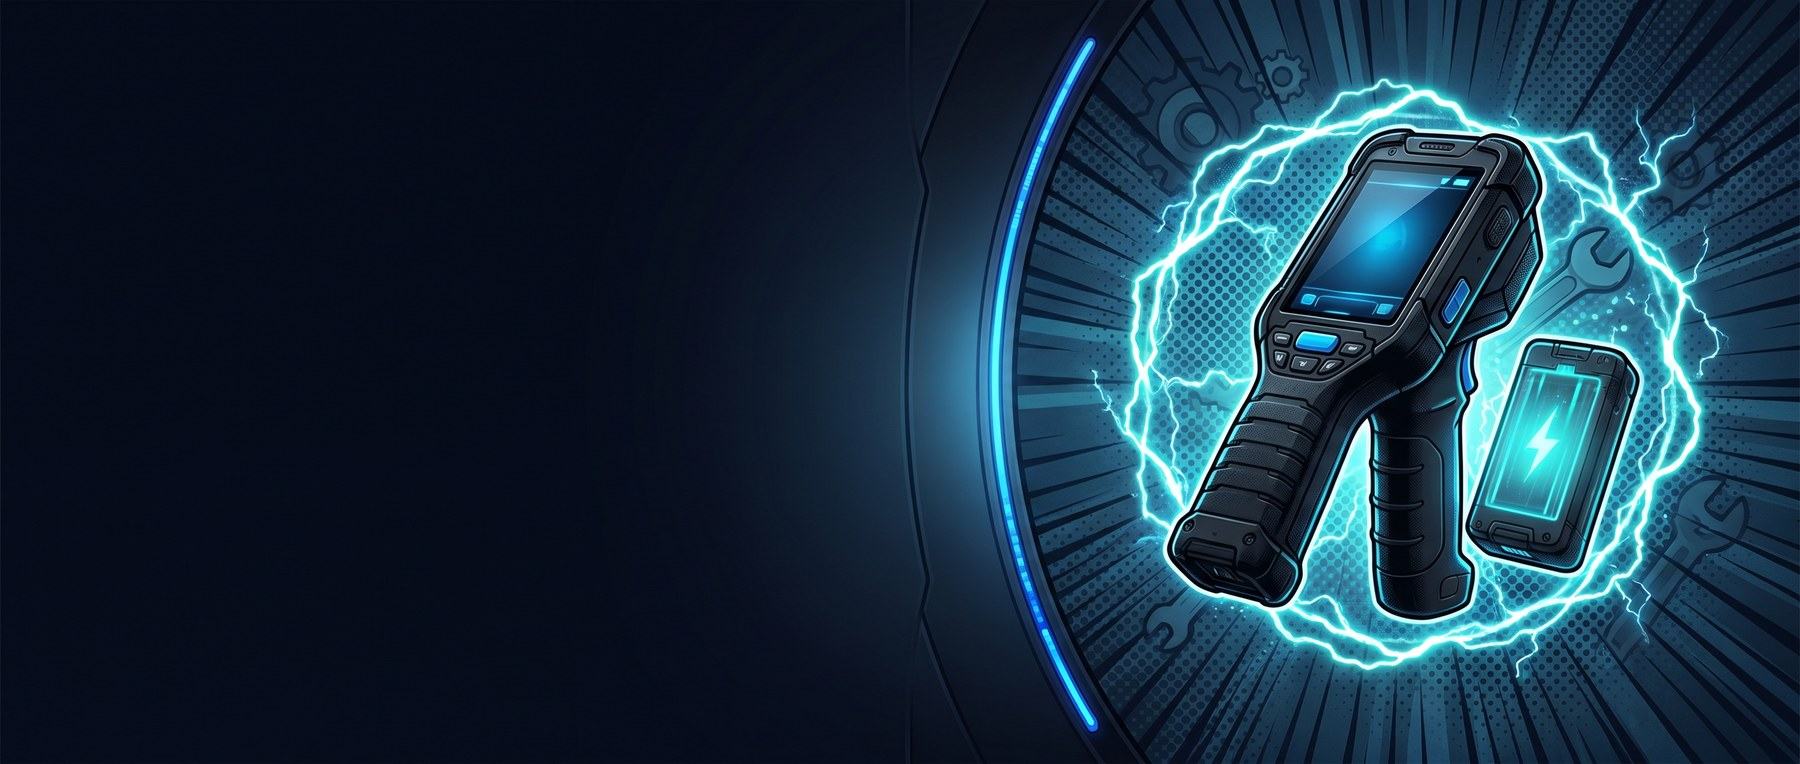
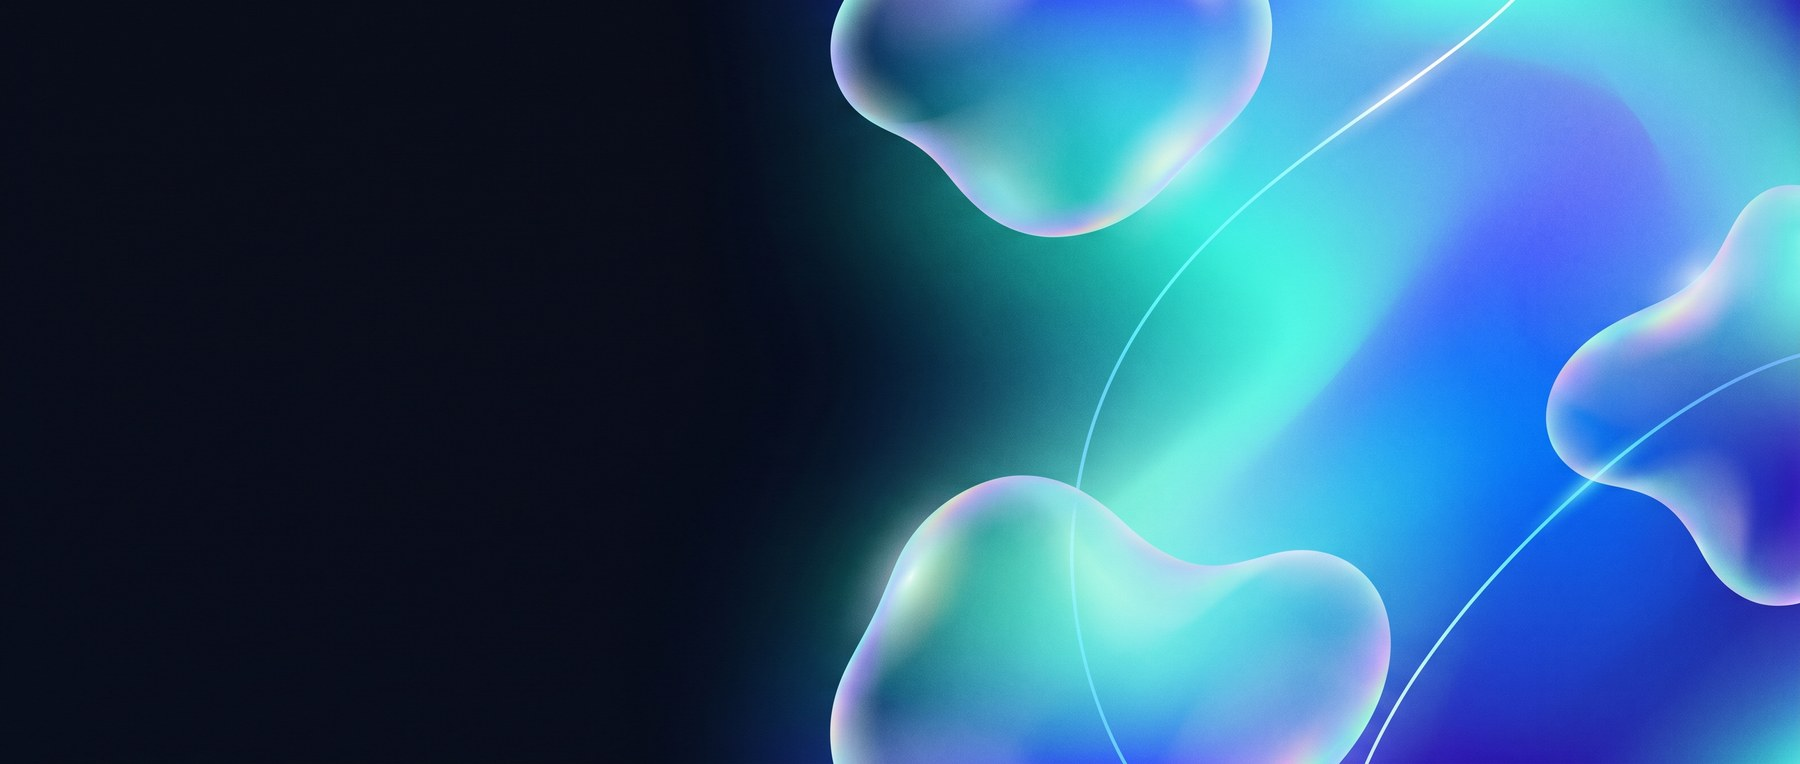
design(funnel): aurora 2026 banery (bez urządzeń) — cyan vs magenta + własne ikony 3D glass
- tła: abstrakcyjne aurora/mesh gradienty + grain + holografia, dwa różne kolory dla rozróżnienia
- własne ikony 3D glassmorphism (klucz / torba) zamiast generycznych lucide
- przycisk takma fioletowy (pod magenta), części niebieski

diff --git a/components/FunnelBanners.tsx b/components/FunnelBanners.tsx
@@ -1,11 +1,11 @@
 import Link from 'next/link'
 import Image from 'next/image'
-import { Wrench, ShoppingCart, ArrowRight } from 'lucide-react'
+import { ArrowRight } from 'lucide-react'
 
 /**
- * Most lejka (TOFU → MOFU/BOFU) pod instrukcją modelu — MEGA banery z generowanym tłem.
- * Baner 1 (główny): części + serwis na serwis-zebry.pl.
- * Baner 2 (drugorzędny): zakup nowego/następcy na takma.com.pl (deep-link + UTM, dofollow).
+ * Most lejka (TOFU → MOFU/BOFU) pod instrukcją modelu — MEGA banery (aurora 2026, własne ikony 3D).
+ * Baner 1 (cyan/niebieski): części + serwis na serwis-zebry.pl.
+ * Baner 2 (fiolet/magenta): zakup nowego/następcy na takma.com.pl (deep-link + UTM, dofollow).
  * Włączane per model w MODELS — start: TC22. Dla EOL → następca.
  */
 
@@ -41,7 +41,7 @@ export default function FunnelBanners({ model }: { model: string }) {
 
   return (
     <div className="mt-8 space-y-3">
-      {/* Baner 1 — części + serwis (MEGA, generowane tło) */}
+      {/* Baner 1 — części + serwis (aurora cyan/niebieski) */}
       {cfg.partsHref && (
         <div className="relative overflow-hidden rounded-2xl shadow-xl ring-1 ring-white/10 min-h-[200px]">
           <Image
@@ -51,11 +51,15 @@ export default function FunnelBanners({ model }: { model: string }) {
             sizes="(max-width: 1024px) 100vw, 1024px"
             className="object-cover object-right"
           />
-          <div className="absolute inset-0 bg-gradient-to-r from-slate-950 via-slate-950/92 to-slate-950/20" />
+          <div className="absolute inset-0 bg-gradient-to-r from-slate-950 via-slate-950/90 to-slate-950/10" />
           <div className="relative p-6 sm:p-7 flex items-start gap-4">
-            <div className="flex-shrink-0 w-12 h-12 rounded-2xl bg-blue-500 flex items-center justify-center shadow-lg shadow-blue-500/40 ring-1 ring-white/20">
-              <Wrench className="w-6 h-6 text-white" />
-            </div>
+            <Image
+              src="/sklep_photo/banners/icon-parts.jpeg"
+              alt=""
+              width={56}
+              height={56}
+              className="flex-shrink-0 w-14 h-14 rounded-2xl shadow-lg shadow-blue-500/30"
+            />
             <div className="flex-1 max-w-2xl">
               <p className="text-lg sm:text-xl font-bold text-white drop-shadow-sm">
                 Twój {model} wymaga części lub naprawy?
@@ -85,7 +89,7 @@ export default function FunnelBanners({ model }: { model: string }) {
         </div>
       )}
 
-      {/* Baner 2 — zakup nowego sprzętu na TAKMA (MEGA, generowane tło, drugorzędny) */}
+      {/* Baner 2 — zakup nowego na TAKMA (aurora fiolet/magenta, drugorzędny) */}
       {showTakma && (
         <div className="relative overflow-hidden rounded-2xl shadow-lg ring-1 ring-white/10 min-h-[92px]">
           <Image
@@ -95,11 +99,15 @@ export default function FunnelBanners({ model }: { model: string }) {
             sizes="(max-width: 1024px) 100vw, 1024px"
             className="object-cover object-right"
           />
-          <div className="absolute inset-0 bg-gradient-to-r from-slate-950 via-slate-950/90 to-slate-950/20" />
+          <div className="absolute inset-0 bg-gradient-to-r from-slate-950 via-slate-950/88 to-slate-950/10" />
           <div className="relative px-5 py-4 sm:px-6 flex items-center gap-3 flex-wrap">
-            <div className="flex-shrink-0 w-9 h-9 rounded-xl bg-indigo-500 flex items-center justify-center ring-1 ring-white/20">
-              <ShoppingCart className="w-4 h-4 text-white" />
-            </div>
+            <Image
+              src="/sklep_photo/banners/icon-buy.jpeg"
+              alt=""
+              width={40}
+              height={40}
+              className="flex-shrink-0 w-10 h-10 rounded-xl shadow-md shadow-fuchsia-500/30"
+            />
             <p className="text-sm text-slate-100 flex-1 min-w-[200px] font-medium drop-shadow-sm">
               {inProd
                 ? `Rozbudowujesz flotę albo potrzebujesz nowego ${model}?`
@@ -109,7 +117,7 @@ export default function FunnelBanners({ model }: { model: string }) {
               href={buyHref}
               target="_blank"
               rel="noopener"
-              className="inline-flex items-center gap-1.5 px-5 py-2.5 rounded-xl bg-indigo-500 text-white text-sm font-semibold hover:bg-indigo-400 transition-colors shadow-lg shadow-indigo-500/30"
+              className="inline-flex items-center gap-1.5 px-5 py-2.5 rounded-xl bg-violet-500 text-white text-sm font-semibold hover:bg-violet-400 transition-colors shadow-lg shadow-violet-500/30"
             >
               {inProd ? `Zobacz ${model} w TAKMA` : `Zobacz następcę${cfg.successorName ? ` — ${cfg.successorName}` : ''} w TAKMA`}
               <ArrowRight className="w-4 h-4" />